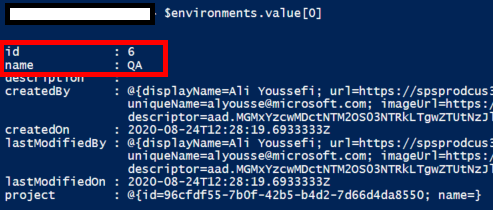
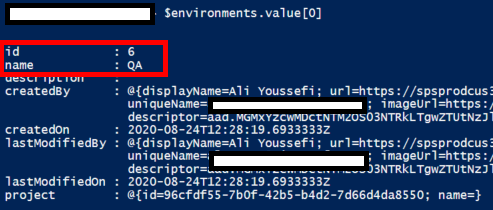
updated ps images

Changed region(s): [[0.426, 0.7143, 0.7606, 0.8286], [0.3955, 0.4571, 0.7606, 0.5429]]

diff --git a/docs/08.02 - Monitoring-Azure-DevOps - Using APIs.md b/docs/08.02 - Monitoring-Azure-DevOps - Using APIs.md
@@ -114,7 +114,7 @@ $environments = Invoke-RestMethod -Uri $environmentsUrl -Method Get -ContentType
 
 The output for each environment includes the identifier, name, description and creation properties.
 
-<insert GetENvironment PS>
+<img src="https://raw.githubusercontent.com/aliyoussefi/MonitoringPowerPlatform/master/Artifacts/DevOps/RestApi.GetEnvironemnt.PowerShell.PNG"  />
 
 #### Environment Deployment History and 
 
@@ -129,11 +129,11 @@ $environmentDeploymentRecords = Invoke-RestMethod -Uri $environmentDeploymentRec
 
 For each deployment record we can find out a wealth of information. Build definitions, plans, stages, jobs are all shown. The start and finish timings and statuses are also shown, helping engineers determine where things may have gone wrong.
 
-<insert deployment history powerhsell>
+<img src="https://raw.githubusercontent.com/aliyoussefi/MonitoringPowerPlatform/master/Artifacts/DevOps/RestApi.GetEnvironmentDeploymentRecord.PowerShell.PNG"  />
 
-Here is an example showing usage of the Environment and Environment Deployment Record REST API calls. Also included are calls to the Build REST API detailed below.
+Here is an example showing usage of the Environment and Environment Deployment Record REST API calls. Also included are calls to the Build REST API calls detailed below.
 
-<insert gif>
+<img src="https://raw.githubusercontent.com/aliyoussefi/MonitoringPowerPlatform/master/Artifacts/DevOps/REST API and Build Environment Deployment.gif"  />
 
 #### Quick Note on Security Checks
 
